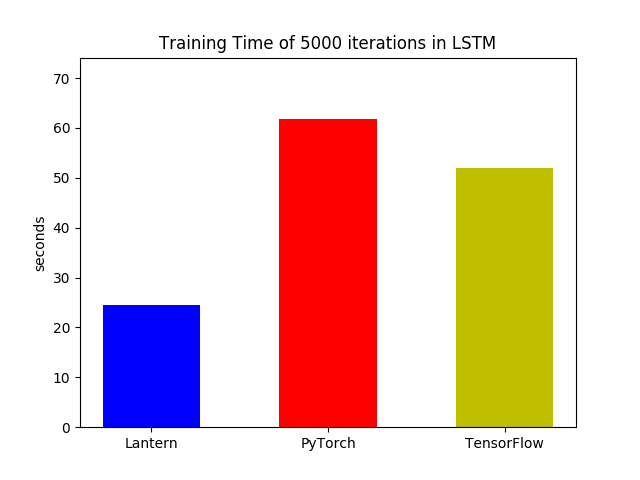
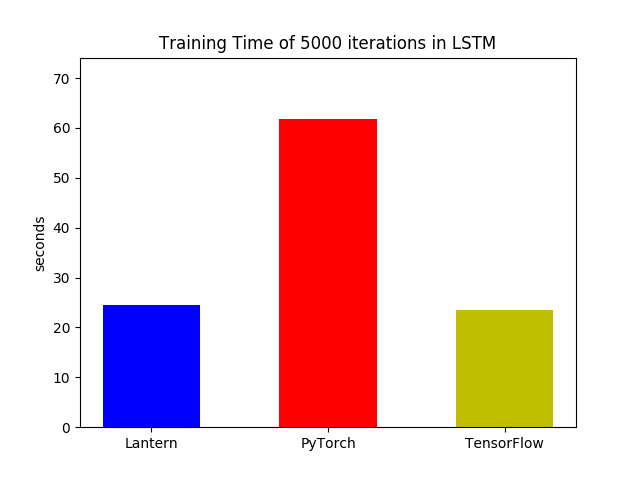
fix TensorFlow LSTM

Changed region(s): [[0.6875, 0.3438, 0.875, 0.6562]]

diff --git a/src/out/NIPS18evaluation/evaluationLSTM/min-char-lstm-tf.py b/src/out/NIPS18evaluation/evaluationLSTM/min-char-lstm-tf.py
@@ -36,8 +36,10 @@ def run(write_to):
   W2 = tf.Variable(np.random.randn(hidden_size, vocab_size) * 0.01, dtype=tf.float32)  #hidden to output
   b2 = tf.Variable(np.zeros((1,vocab_size)), dtype=tf.float32)  # output bias
 
-  lstm = keras.layers.RNN(tf.keras.layers.LSTMCell(hidden_size), return_sequences=True, time_major=True)
-  outputs = lstm(tf.one_hot(batchX_placeholder, vocab_size))
+  outputs, _ = tf.nn.dynamic_rnn(tf.contrib.rnn.BasicLSTMCell(hidden_size, state_is_tuple=True), tf.one_hot(batchX_placeholder, vocab_size), time_major=True, dtype = tf.float32)
+  outputs = tf.reshape(outputs, [-1, hidden_size])
+#  lstm = keras.layers.RNN(tf.keras.layers.LSTMCell(hidden_size), return_sequences=True, time_major=True)
+#  outputs = lstm(tf.one_hot(batchX_placeholder, vocab_size))
   # outputs, _ = tf.nn.dynamic_rnn(tf.contrib.rnn.BasicLSTMCell(hidden_size, state_is_tuple=True), tf.one_hot(batchX_placeholder, vocab_size), time_major=True, dtype = tf.float32)
   outputs = tf.reshape(outputs, [-1, hidden_size])
   Y = tf.reshape(batchY_placeholder, [-1])
